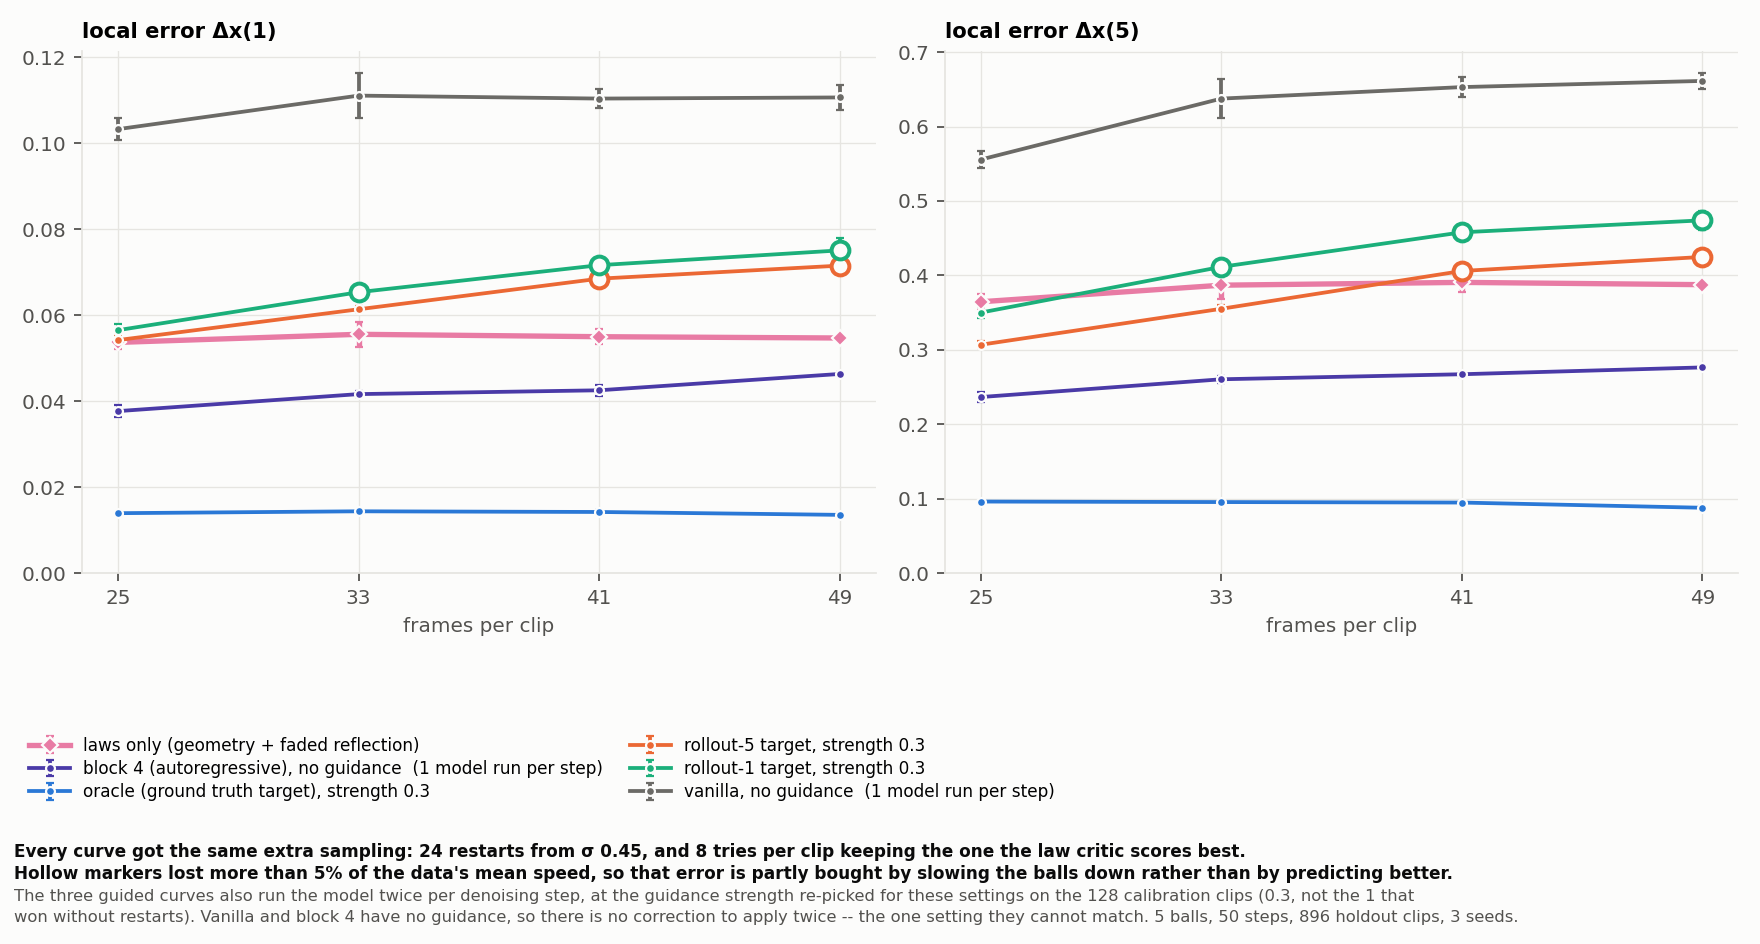
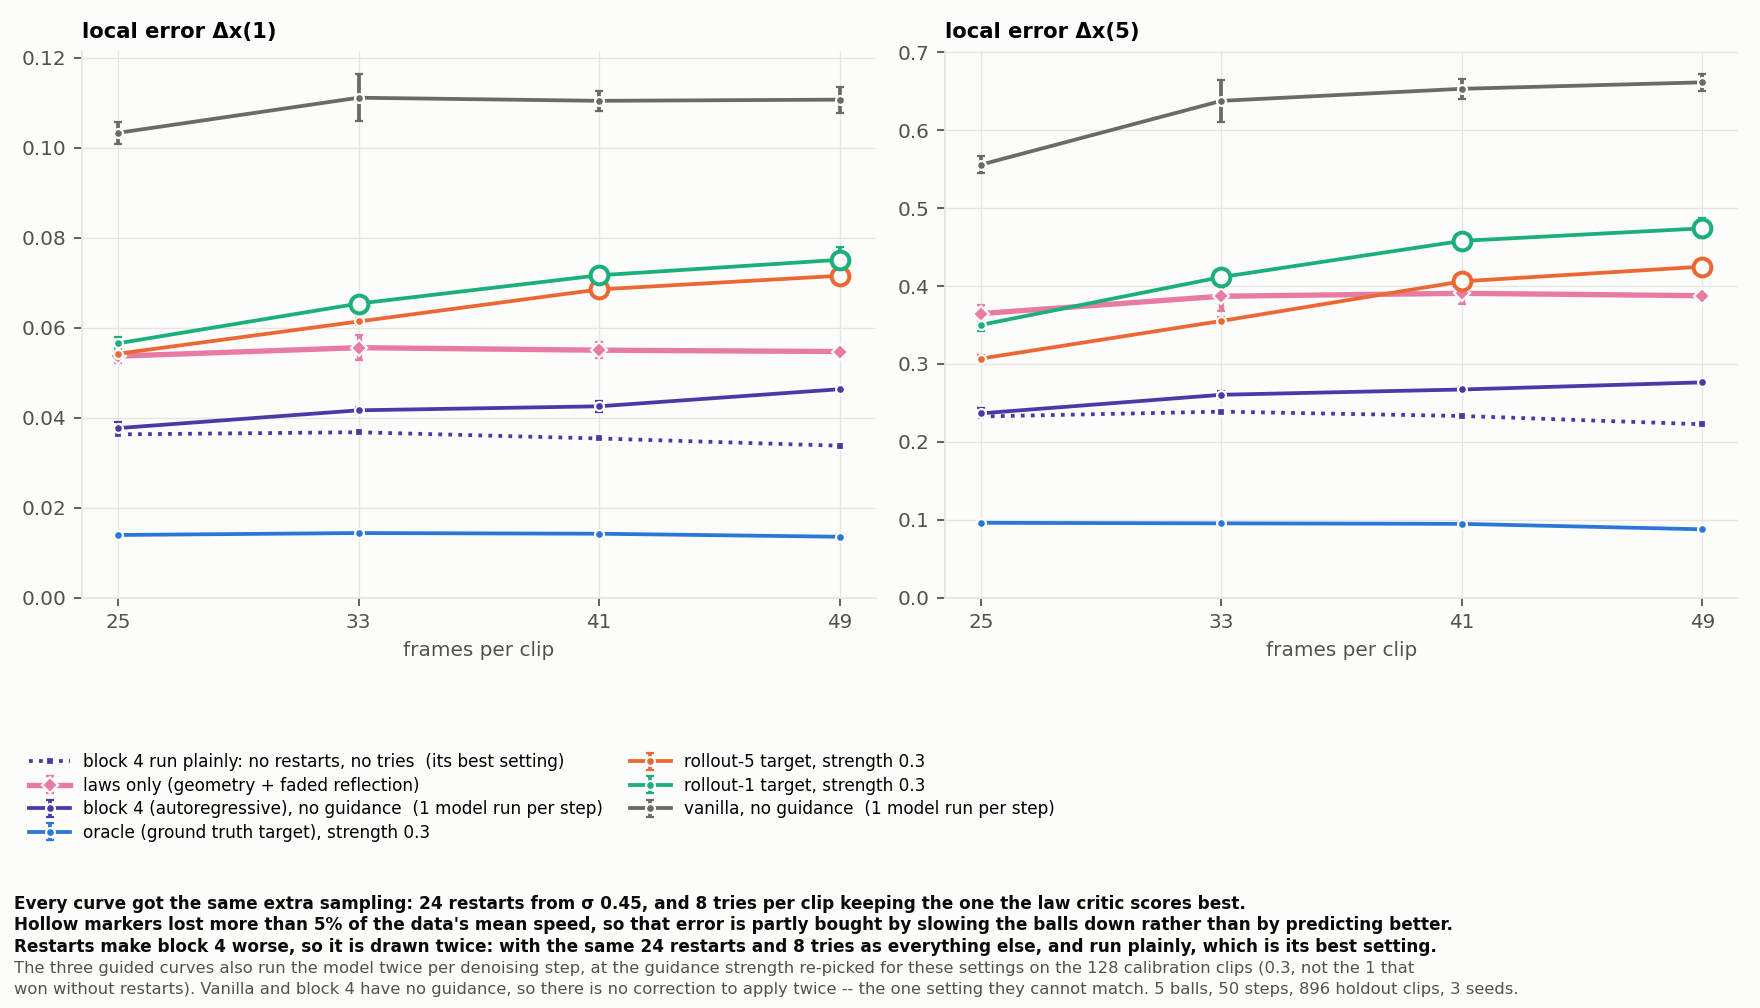
Draw block 4 twice, since these settings are what make it worse
The figure gave block 4 the same 24 restarts and 8 tries as everything else,
which is the fair thing for the guided baselines but not for block 4: restarts
re-noise a finished block-causal clip and regenerate it block by block, which
breaks the coherence between blocks. That cost it 0.104 at 49 frames and
best-of-8 won back only 0.051, so the plotted 0.276 understated it against its
own plain 0.223. Section 7.5 had already concluded plain is its best setting.

Block 4 now appears as two curves, solid with the extra sampling and dotted
without, and the plain row is in the table. The dotted curve sits below the
solid one at every clip length, so the handicap is readable off the figure
instead of only stated in the text. The margin over the best bidirectional
method is 0.11 at 49 frames with the handicap and 0.17 without.

diff --git a/index.html b/index.html
@@ -1380,8 +1380,8 @@
       </div>
       <figure class="plot" id="guidance-laws-length">
         <div class="figure-heading"><h3>The same comparison, with every method given 24 restarts and 8 tries</h3><a href="assets/statebench-guidance/figures/matched_horizon.png" download>Download PNG <span aria-hidden="true">↓</span></a></div>
-        <img src="assets/statebench-guidance/figures/matched_horizon.png" alt="Local error against clip length, with every method given 24 restarts and 8 tries per clip. Block 4 is lowest at every length, laws-only is the flattest bidirectional curve, and the rollout curves are drawn with hollow markers where their samples lost more than 5 percent of the data's speed" width="1760" height="944" loading="lazy">
-        <figcaption><span class="figure-number">Figure 34.</span> Every curve here got the extra sampling that only laws-only had before: 24 restarts from σ 0.45, and 8 tries per clip keeping the one its law critic scores best. The guided curves also run the model twice per denoising step. Their guidance strength was re-picked for these settings on the 128 calibration clips and came out at 0.3 for all three, not the 1 that won without restarts. Vanilla and block 4 have no guidance, so there is no correction to apply twice — the one setting they cannot match. <strong>Hollow markers lost more than 5% of the data's mean speed</strong>, so that error is partly bought by slowing the balls down instead of predicting better.</figcaption>
+        <img src="assets/statebench-guidance/figures/matched_horizon.png" alt="Local error against clip length, with every method given 24 restarts and 8 tries per clip, and block 4 drawn a second time without them. Block 4 is lowest at every length, laws-only is the flattest bidirectional curve, and the rollout curves are drawn with hollow markers where their samples lost more than 5 percent of the data's speed" width="1760" height="1008" loading="lazy">
+        <figcaption><span class="figure-number">Figure 34.</span> Every curve here got the extra sampling that only laws-only had before: 24 restarts from σ 0.45, and 8 tries per clip keeping the one its law critic scores best. The guided curves also run the model twice per denoising step. Their guidance strength was re-picked for these settings on the 128 calibration clips and came out at 0.3 for all three, not the 1 that won without restarts. Vanilla and block 4 have no guidance, so there is no correction to apply twice — the one setting they cannot match. <strong>Hollow markers lost more than 5% of the data's mean speed</strong>, so that error is partly bought by slowing the balls down instead of predicting better. Block 4 appears twice because these settings make it worse: the solid line has the same 24 restarts and 8 tries as everything else, the dotted line is block 4 run plainly, which is its best setting.</figcaption>
       </figure>
       <div class="wide-width report-content">
         <div class="table-scroll" tabindex="0" role="region" aria-label="Five-step local error with every method given 24 restarts and 8 tries">
@@ -1394,6 +1394,7 @@
               <tr><td>rollout-5 target</td><td>0.307</td><td>0.355</td><td>0.406</td><td>0.425</td><td>1.38×</td><td>no, from 41 frames</td></tr>
               <tr><td>rollout-1 target</td><td>0.350</td><td>0.412</td><td>0.458</td><td>0.474</td><td>1.35×</td><td>no, from 33 frames</td></tr>
               <tr><td>vanilla</td><td>0.556</td><td>0.638</td><td>0.653</td><td>0.661</td><td>1.19×</td><td>every length</td></tr>
+              <tr><td><strong>block 4 run plainly</strong>, no restarts and no tries</td><td><strong>0.233</strong></td><td><strong>0.239</strong></td><td><strong>0.233</strong></td><td><strong>0.223</strong></td><td>0.96×</td><td>every length</td></tr>
             </tbody>
           </table>
         </div>
@@ -1407,7 +1408,7 @@
         <h4>What survives is the flatness</h4>
         <p>Laws-only grows 1.06× from 25 to 49 frames while rollout-5 grows 1.38×, rollout-1 1.35× and vanilla 1.19×, and it holds the data&rsquo;s speed at every length. That is a property of the laws, not of the extra sampling: every curve here got the same restarts and the same 8 tries. It is the one claim from this section that the matched comparison leaves standing.</p>
         <h4>Block 4 still wins, while carrying a handicap</h4>
-        <p>Block 4 is the most accurate method at every clip length, 0.237 to 0.276. It is also the method the restarts hurt: re-noising a finished block-causal clip and regenerating it block by block breaks the coherence between blocks, so 24 restarts take it from 0.223 to 0.276. Its own best setting is the plain one, and 0.223 is the fair target. Generating in order still beats guiding a one-pass model, by 0.11 at 49 frames even with the handicap.</p>
+        <p>Block 4 is the most accurate method at every clip length whichever way it is run: 0.237 to 0.276 with the same 24 restarts and 8 tries, and 0.233 to 0.223 without them. It is also the one method these settings hurt — re-noising a finished block-causal clip and regenerating it block by block breaks the coherence between blocks, so 24 restarts cost it 0.104 at 49 frames and best-of-8 wins back only 0.051. Its best setting is the plain one, so 0.223 is the fair target. Generating in order beats guiding a one-pass model by 0.11 at 49 frames even when block 4 carries the handicap, and by 0.17 when it does not.</p>
         <h4>Round 1 bought its falling curve by slowing down</h4>
         <p>The earlier round-1 method, laws plus differentiable rollouts, appeared to <em>improve</em> with clip length, 0.408 at 25 frames to 0.317 at 49. Its samples keep only 0.99, 0.93, 0.89 and 0.83 of the data&rsquo;s mean speed across those four lengths. Slower balls travel less far between the frames the metric compares, so the error falls without the prediction getting better. That curve is not evidence of anything and is no longer plotted.</p>
       </div>
